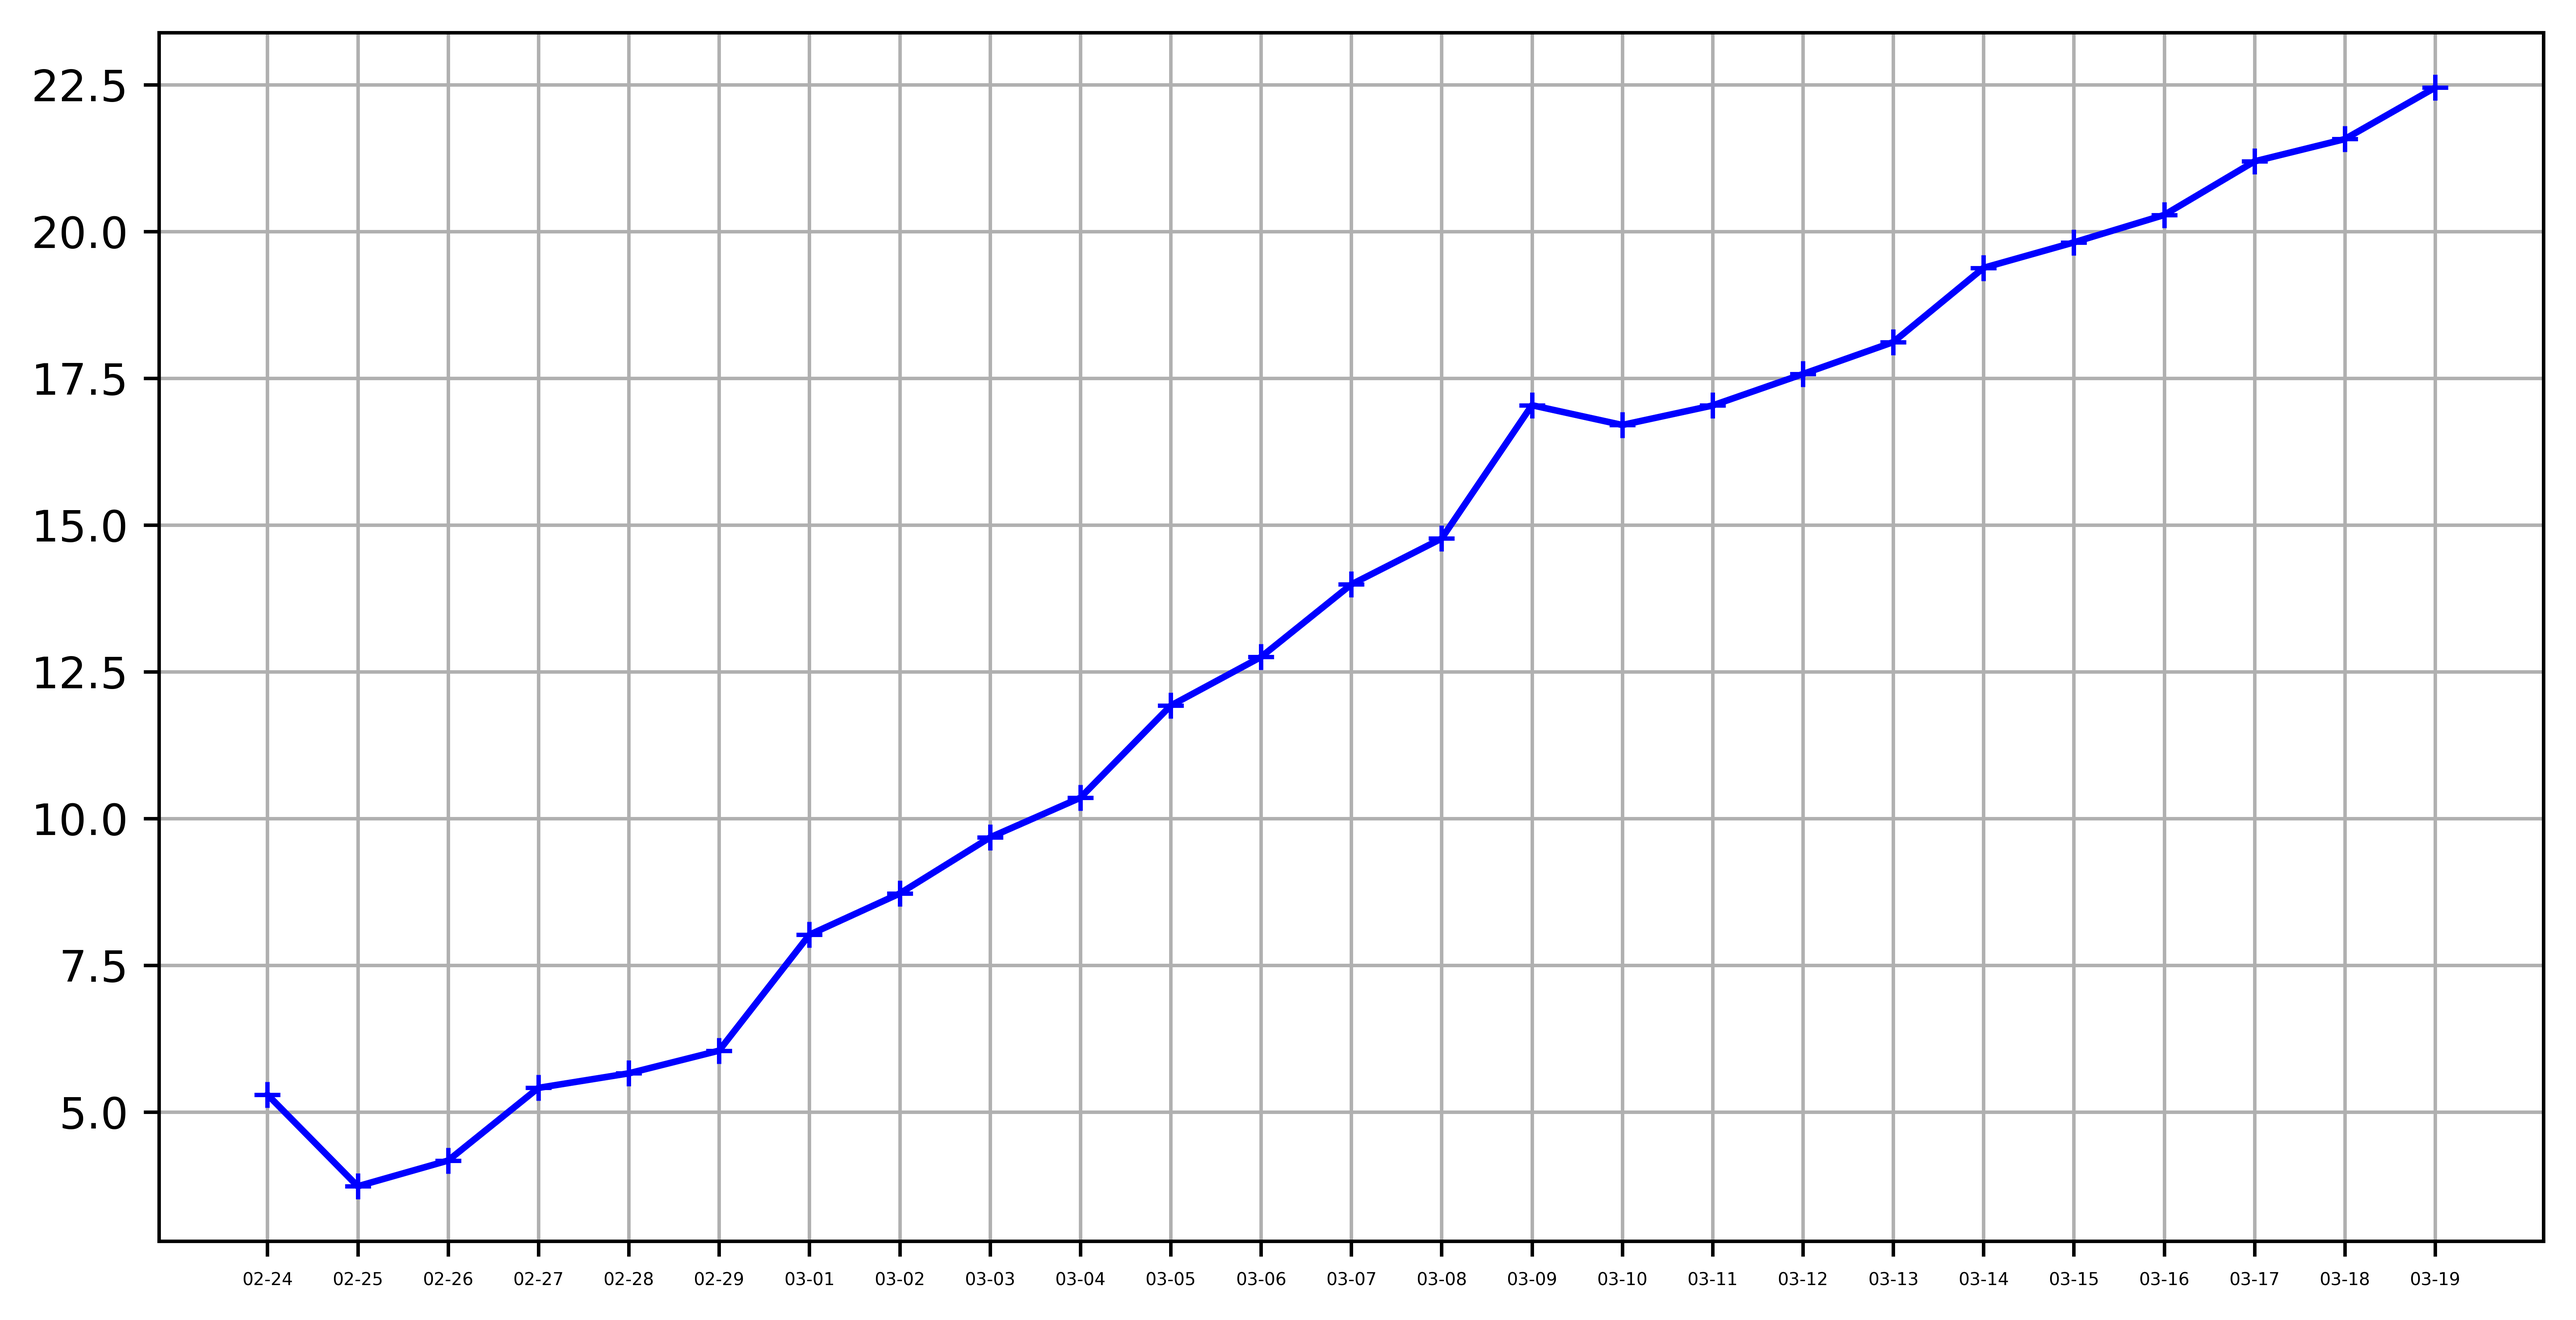
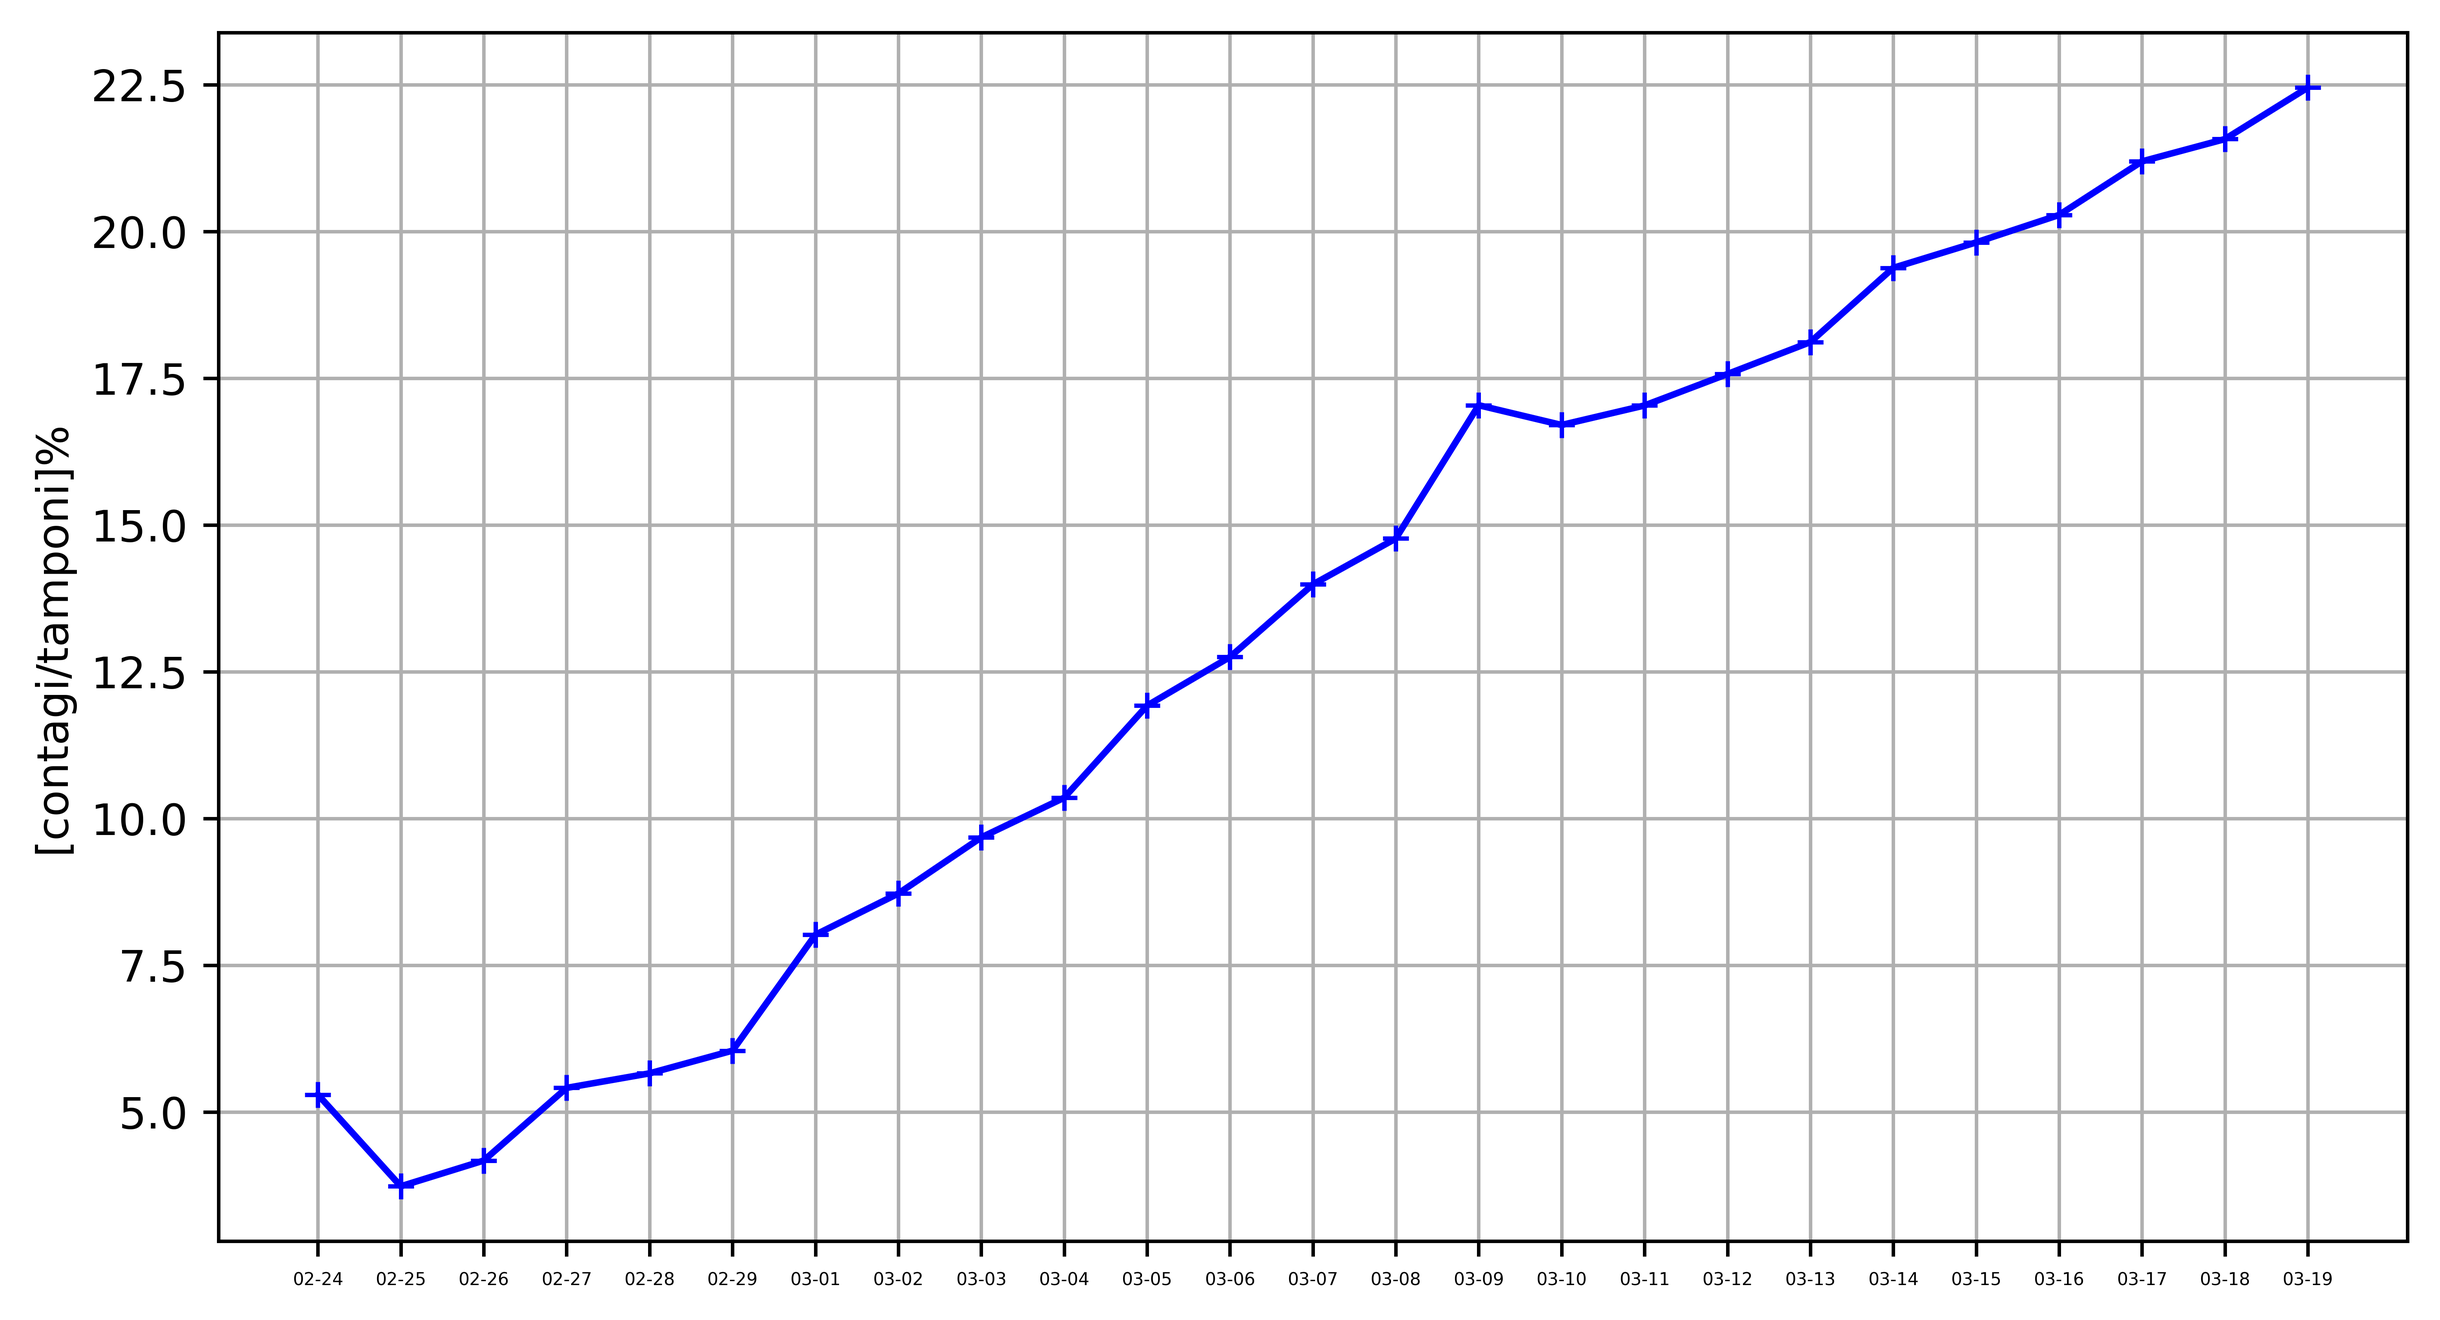
added label on axis y

diff --git a/run.py b/run.py
@@ -29,7 +29,8 @@ def send():
 
     plt.rcParams.update({'xtick.labelsize': 4})
 
-    plt.figure("Risultati COVID-19 Italia", figsize=(9.8, 5.0))
+    plt.figure("Risultati COVID-19 Italia", figsize=(9.0, 5.0))
+    plt.ylabel("[contagi/tamponi]%")
     plt.plot(days, results, 'b-+')
     plt.grid()
 
@@ -47,6 +48,7 @@ schedule.every().day.at("19:30").do(send)
 while True:
     schedule.run_pending()
     time.sleep(60)
+
 
     
 
